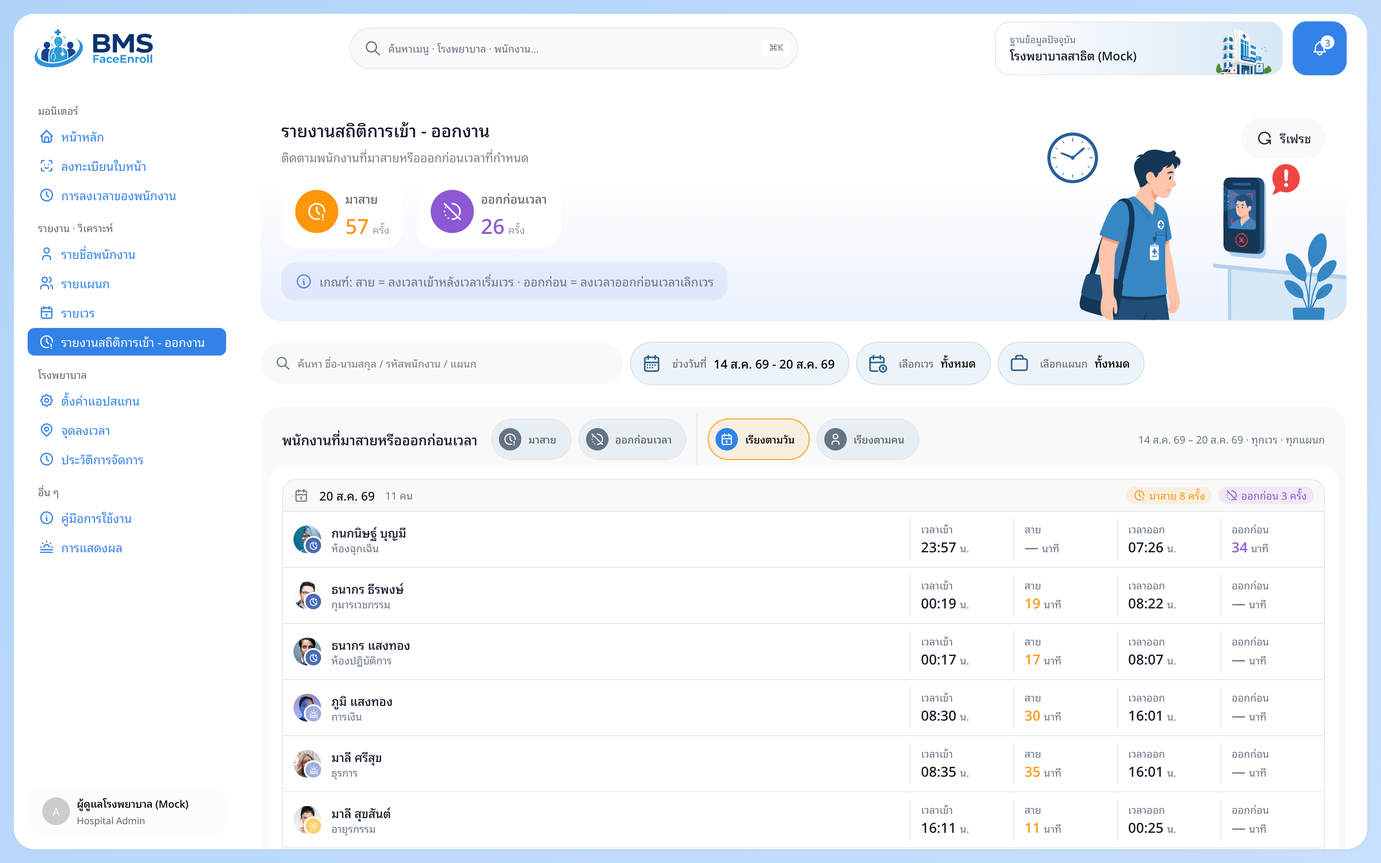
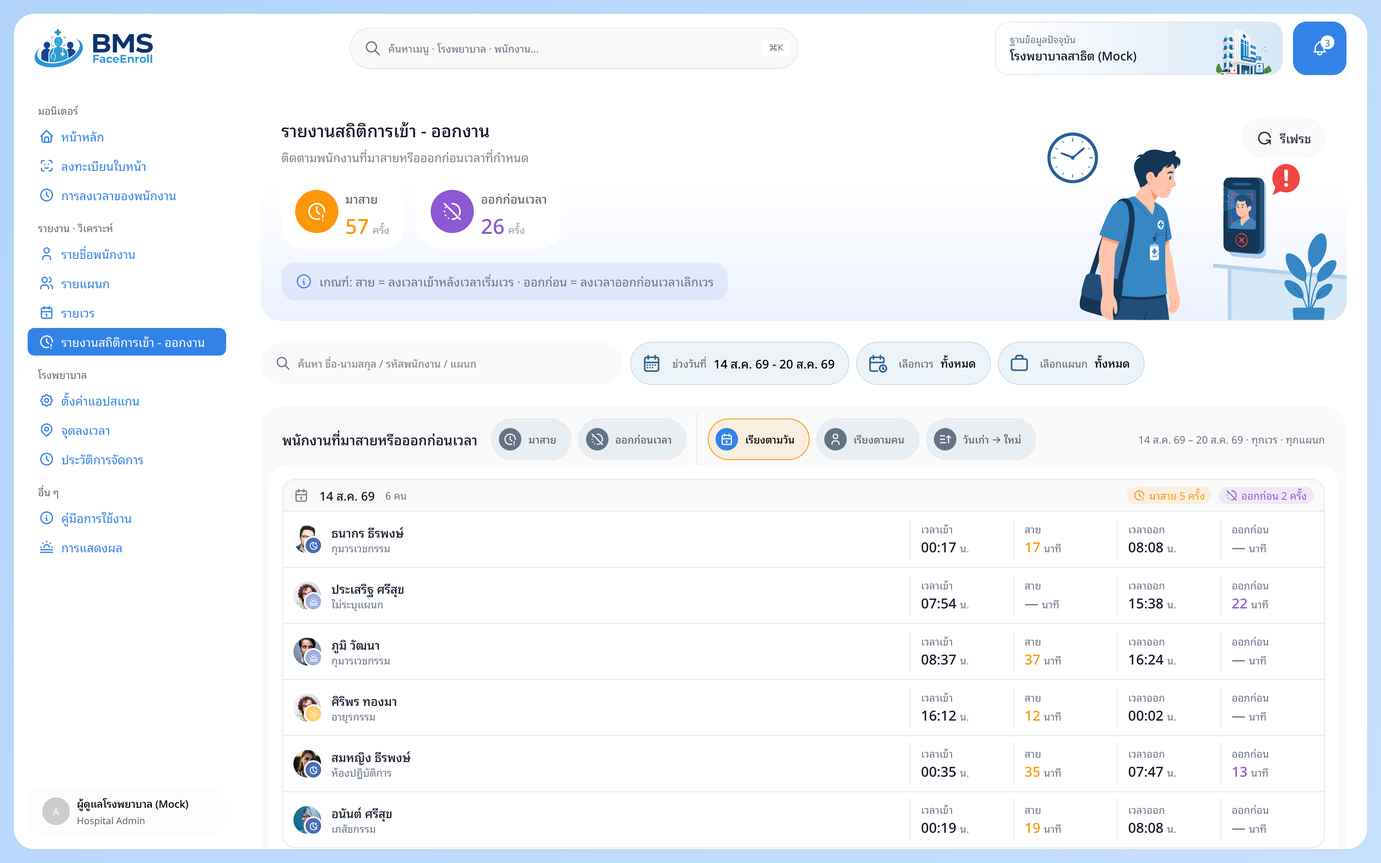
legend กดปิด-เปิดทีละชุด + ลำดับวันในกลุ่มเรียงเก่า → ใหม่
- legend เดิมกดแล้วเหลือชุดเดียว เทียบสองชุดไม่ได้ เปลี่ยนเป็นปิด/เปิดทีละชุด
  ชุดที่ปิดกล่องสีเป็นขอบโปร่ง + ขีดฆ่า · กันปิดครบทุกชุด · แกนคิดสเกลจากชุดที่เปิดอยู่
- รายงานสถิติเข้า-ออก: โหมดเรียงตามคน ไล่วันเก่า → ใหม่ เป็นค่าเริ่มต้น
- เพิ่มชิปสลับลำดับวัน (ตามคน = ลำดับแถวในกลุ่ม · ตามวัน = ลำดับหัวกลุ่ม)
- อัปสไลด์ + ภาพประกอบให้ตรงของจริง

diff --git a/src/components/charts.tsx b/src/components/charts.tsx
@@ -21,12 +21,18 @@ export const legendHover = (set: (v: any) => void, key: string | number) => ({
   style: { cursor: 'default' as const },
 })
 
-/** legend แบบกดค้างได้ — ชี้ = เน้นชั่วคราว · กด = ล็อกโฟกัสไว้ (กดซ้ำ/กดอันอื่นเพื่อเปลี่ยน)
-    ล็อกอยู่ = กราฟคิดเพดานแกนใหม่จากชุดนั้นชุดเดียว (ชุดค่าน้อยจะได้ไม่แบนติดพื้น) */
-export function useLegendFocus<K extends string | number = string>() {
+/** legend กดปิด-เปิดได้ทีละชุด — ชี้ = เน้นชั่วคราว · กด = ปิด/เปิดชุดนั้น (ชุดอื่นไม่ยุ่ง)
+    เลือกเทียบกี่ชุดก็ได้ เช่น ปิดสองชุดเหลือสองแท่งไว้เทียบกัน
+    เหลือกี่ชุดกราฟก็คิดเพดานแกนใหม่จากเท่าที่เปิดอยู่ (ชุดค่าน้อยจะได้ไม่แบนติดพื้น) */
+export function useLegendFocus<K extends string | number = string>(keys?: readonly K[]) {
   const [hover, setHover] = useState<K | null>(null)
-  const [lock, setLock] = useState<K | null>(null)
-  const toggle = (k: K) => setLock((cur) => (cur === k ? null : k))
+  const [off, setOff] = useState<K[]>([])
+  const toggle = (k: K) => setOff((cur) => {
+    if (cur.includes(k)) return cur.filter((x) => x !== k)
+    // ปิดครบทุกชุด = กราฟว่างเปล่า ไม่มีอะไรให้ดู — กันไว้ให้เหลืออย่างน้อยหนึ่งชุด
+    if (keys && cur.length >= keys.length - 1) return cur
+    return [...cur, k]
+  })
   const bind = (key: K) => ({
     onMouseEnter: () => setHover(key),
     onMouseLeave: () => setHover(null),
@@ -38,11 +44,10 @@ export function useLegendFocus<K extends string | number = string>() {
     },
     tabIndex: 0,
     role: 'button' as const,
-    'aria-pressed': lock === key,
+    'aria-pressed': !off.includes(key),
     style: { cursor: 'pointer' as const },
   })
-  // ล็อกชนะการชี้เสมอ — กดค้างไว้แล้วเมาส์ไปไหนกราฟก็ยังโฟกัสชุดเดิม
-  return { focus: (lock ?? hover) as K | null, lock, bind, clear: () => setLock(null) }
+  return { hover, off, isOff: (k: K) => off.includes(k), bind, clear: () => setOff([]) }
 }
 
 export type Seg = { v: number; color: string; label?: string }
@@ -165,7 +170,7 @@ export function PercentBars({ rows, color = 'var(--accent)', colors, height = 32
 
 /** คอลัมน์ซ้อน (stacked) — Figma หน้าหลัก node 13:2973 "สถิติการเข้า-ออกงาน"
     1 แท่ง = 1 วัน ซ้อนตามชุดข้อมูล · legend วาดเองจากฝั่งผู้เรียก (ให้วางมุมขวาบนได้) */
-export function StackedColumns({ groups, series, height = 240, unit = 'ครั้ง', columnWidth = 56, axisLabel, active, isolate, stackLabels, showValues }: {
+export function StackedColumns({ groups, series, height = 240, unit = 'ครั้ง', columnWidth = 56, axisLabel, active, hidden, stackLabels, showValues }: {
   groups: { label: string; values: Record<string, number> }[]
   /** stack = ชื่อกองของชุดข้อมูล (ไม่ใส่ = กองเดียวกันหมด) — คนละกอง = แท่งแยกกันภายในวันเดียวกัน
       dir = 'down' ทำกราฟกระจกเงา: ชุดนั้นห้อยลงใต้เส้นศูนย์ (เข้าขึ้น/ออกลง) — ใช้ stack เดียวกันได้
@@ -178,23 +183,24 @@ export function StackedColumns({ groups, series, height = 240, unit = 'ครั
   axisLabel?: string
   /** key ของชุดข้อมูลที่กำลังชี้อยู่ที่ legend — ชุดอื่นจางลง (legend วาดจากฝั่งผู้เรียก) */
   active?: string | null
-  /** key ที่ "กดล็อก" ไว้ — วาดเฉพาะชุดนั้น แล้วคิดเพดานแกนใหม่จากชุดนั้นชุดเดียว */
-  isolate?: string | null
+  /** key ของชุดที่ "กดปิด" ไว้ที่ legend — ไม่วาด แล้วคิดเพดานแกนใหม่จากชุดที่เหลือ */
+  hidden?: string[]
   /** ป้ายกำกับใต้แท่งของแต่ละกอง เช่น { in: 'เข้า', out: 'ออก' } — ป้ายวัน (label ของ group) เลื่อนลงไปอยู่แถวถัดไป */
   stackLabels?: Record<string, string>
   /** ปักตัวเลขลงกลางทุกชิ้นตลอดเวลา (ชิ้นเตี้ยเกินตัวเลขไม่พอดีจะเว้นให้เอง — ดูจาก tooltip แทน) */
   showValues?: boolean
 }) {
+  const off = (k: string) => !!hidden?.includes(k)
   const stackOf = (s: { stack?: string }) => s.stack ?? 'a'
   const down = (s: { dir?: 'up' | 'down' }) => s.dir === 'down'
   const mirror = series.some(down)
   // กระจกเงา = เก็บชุด 'down' เป็นเลขติดลบ + stackOffset="sign" (ค่าเริ่มต้น 'none' จะจับบวกรวมแล้ววาดขึ้นหมด)
-  // ล็อกชุดไหนอยู่ = ชุดอื่นใส่ null (ไม่ใช่ถอด <Bar> ออก) — จำนวนชุดเท่าเดิม recharts จึงไม่คิดตำแหน่ง/
-  // ความกว้างแท่งใหม่ ปลดล็อกแล้วทุกอย่างกลับที่เดิมเป๊ะ · null ยังโดน Tooltip filterNull กรองออกให้ด้วย
+  // ชุดที่ปิดอยู่ = ใส่ null (ไม่ใช่ถอด <Bar> ออก) — จำนวนชุดเท่าเดิม recharts จึงไม่คิดตำแหน่ง/
+  // ความกว้างแท่งใหม่ เปิดกลับแล้วทุกอย่างกลับที่เดิมเป๊ะ · null ยังโดน Tooltip filterNull กรองออกให้ด้วย
   const data = groups.map((g) => {
     const row: Record<string, number | string | null> = { label: g.label }
     for (const s of series) {
-      row[s.key] = isolate && s.key !== isolate
+      row[s.key] = off(s.key)
         ? null
         : (Number(g.values[s.key]) || 0) * (down(s) ? -1 : 1)
     }
@@ -220,8 +226,8 @@ export function StackedColumns({ groups, series, height = 240, unit = 'ครั
   }
   // เพดานแกน Y คิดเองแล้วส่งให้ทั้ง 2 กราฟ — กราฟแกนที่ปักไว้ซ้ายกับกราฟที่เลื่อนได้จะได้สเกลตรงกันเป๊ะ
   // เพดาน = กองที่สูงที่สุด (คนละกอง/คนละทิศไม่บวกกัน — แยกแท่ง/แยกฝั่งเส้นศูนย์)
-  // ล็อกชุดเดียวอยู่ = วาดแค่ชุดนั้น + คิดเพดานจากชุดนั้น (ชุดค่าน้อยจะได้ไม่แบนจนดูไม่ออก)
-  const shown = isolate ? series.filter((s) => s.key === isolate) : series
+  // ปิดบางชุดอยู่ = คิดเพดานจากชุดที่ยังเปิด (ชุดค่าน้อยจะได้ไม่แบนจนดูไม่ออก)
+  const shown = series.filter((s) => !off(s.key))
   const buckets = [...new Set(shown.map((s) => `${stackOf(s)}|${down(s) ? 'd' : 'u'}`))]
   const top = axis(Math.max(4, ...groups.flatMap((g) => buckets.map((b) =>
     shown.filter((s) => `${stackOf(s)}|${down(s) ? 'd' : 'u'}` === b)
@@ -405,13 +411,13 @@ export function GroupedBars({ groups, series, height = 320, unit = 'วัน', 
   // (ไม่ล็อก barWidth = คิดขั้นต่ำจาก 18px/แท่ง แต่ตอนวาดปล่อยให้ยืดเต็มช่องเหมือนกราฟหน้าหลัก)
   // +96 = เผื่อที่ให้ป้ายใต้แกนที่ยาวได้ เช่น "สัปดาห์ที่ 1 (1–7 ส.ค.)" ไม่ให้ชนกลุ่มข้าง ๆ
   const minWidth = Math.max(320, groups.length * (series.length * ((barWidth ?? 18) + 6) + 96))
-  const { focus: hi, lock, bind } = useLegendFocus()
-  // กดล็อกชุดไหน = ชุดอื่นใส่ null (คง <Bar> ไว้ครบ ช่องของแต่ละชุดจึงไม่ถูกจัดใหม่ ปลดล็อกแล้วกลับที่เดิม)
-  // แล้วคิดเพดานแกนใหม่จากชุดที่ล็อก — ชุดค่าน้อยจะได้ไม่แบนติดพื้น
-  const shown = lock ? series.filter((s) => s.key === lock) : series
+  const { hover: hi, isOff, bind } = useLegendFocus(series.map((s) => s.key))
+  // ชุดที่กดปิด = ใส่ null (คง <Bar> ไว้ครบ ช่องของแต่ละชุดจึงไม่ถูกจัดใหม่ เปิดกลับแล้วอยู่ที่เดิม)
+  // แล้วคิดเพดานแกนใหม่จากชุดที่ยังเปิด — ชุดค่าน้อยจะได้ไม่แบนติดพื้น
+  const shown = series.filter((s) => !isOff(s.key))
   const data = groups.map((g) => {
     const row: Record<string, number | string | null> = { label: g.label }
-    for (const s of series) row[s.key] = lock && s.key !== lock ? null : (Number(g.values[s.key]) || 0)
+    for (const s of series) row[s.key] = isOff(s.key) ? null : (Number(g.values[s.key]) || 0)
     return row
   })
   const top = axis(Math.max(4, ...groups.flatMap((g) => shown.map((s) => Number(g.values[s.key]) || 0)))).top
@@ -424,17 +430,20 @@ export function GroupedBars({ groups, series, height = 320, unit = 'วัน', 
         <span style={{ fontSize: 12, color: 'var(--text-faint)' }}>({unit})</span>
         <span style={{ marginLeft: 'auto', display: 'flex', flexWrap: 'wrap', justifyContent: 'flex-end', gap: 20 }}>
           {series.map((s) => (
-            <span key={s.key} {...bind(s.key)} title={lock === s.key ? 'กดอีกครั้งเพื่อเลิกโฟกัส' : 'กดเพื่อโฟกัสชุดนี้'}
+            <span key={s.key} {...bind(s.key)} title={isOff(s.key) ? 'กดเพื่อแสดงชุดนี้' : 'กดเพื่อซ่อนชุดนี้'}
               style={{
                 ...bind(s.key).style,
                 position: 'relative',
                 display: 'inline-flex', alignItems: 'center', gap: 8, fontSize: 14, whiteSpace: 'nowrap',
-                color: lock === s.key ? 'var(--text)' : 'var(--text-dim)',
+                color: isOff(s.key) ? 'var(--text-faint)' : 'var(--text-dim)',
+                textDecoration: isOff(s.key) ? 'line-through' : undefined,
                 opacity: hi == null || hi === s.key ? 1 : 0.5, transition: 'opacity .12s ease',
               }}>
               <span style={{
-                width: 14, height: 14, borderRadius: 4, background: s.color, flex: 'none',
-                boxShadow: lock === s.key ? '0 0 0 2px var(--bg), 0 0 0 4px currentColor' : undefined,
+                width: 14, height: 14, borderRadius: 4, flex: 'none',
+                background: isOff(s.key) ? 'transparent' : s.color,
+                boxShadow: isOff(s.key) ? `inset 0 0 0 2px ${s.color}` : undefined,
+                opacity: isOff(s.key) ? 0.55 : 1, transition: 'background .12s ease, opacity .12s ease',
               }} />
               {s.label}
             </span>

diff --git a/presentation/src/slides.ts b/presentation/src/slides.ts
@@ -30,19 +30,19 @@ export const SLIDES: Slide[] = [
     sec: 'อัปเดตล่าสุด · 20 ส.ค. 69',
     title: 'หน้าหลัก — กราฟเข้า-ออกแบบกระจกเงา + สรุปเป็นจำนวนครั้ง',
     diff: { before: 'overview-cards-before.png', after: 'overview-io-mirror.png' },
-    desc: 'กราฟสถิติการเข้า-ออกงานแยกครึ่งบน-ล่าง: บนคือการสแกนขาเข้า ล่างคือการสแกนขาออก · ตัวเลขปักบนแท่ง · legend กดล็อกโฟกัสได้ · ตัวเลขขาดงานถูกปิดไว้ทั้งระบบ',
+    desc: 'กราฟสถิติการเข้า-ออกงานแยกครึ่งบน-ล่าง: บนคือการสแกนขาเข้า ล่างคือการสแกนขาออก · ตัวเลขปักบนแท่ง · legend กดปิด-เปิดทีละชุดได้ · ตัวเลขขาดงานถูกปิดไว้ทั้งระบบ',
     say: 'เริ่มที่อัปเดตล่าสุดของหน้าหลัก กราฟสถิติการเข้าออกงานเดิมเอาทุกอย่างมากองรวมในแท่งเดียว แยกไม่ออกว่าตัวเลขไหนคือขาเข้าตัวไหนคือขาออก และที่สำคัญคือพนักงานหนึ่งคนสแกนเข้าออกได้หลายรอบต่อวัน ตัวเลขเดิมจึงสื่อความหมายไม่ตรง',
     points: [
       'ครึ่งบน = การสแกนขาเข้า (ตรงเวลา/สาย) · ครึ่งล่าง = การสแกนขาออก (ปกติ/ก่อนเวลา)',
       'นับเป็น "ครั้ง" ทุกจุด — คนเดียวควบกะสแกนได้หลายรอบต่อวัน',
-      'legend กดล็อกได้ — โฟกัสชุดเดียว แล้วแกนคิดสเกลใหม่ให้',
+      'legend กดปิด-เปิดได้ทีละชุด — เหลือไว้เทียบกี่ชุดก็ได้ แกนคิดสเกลใหม่ให้',
       'ตัวเลขขาดงานปิดทั้งระบบ — ริบบิ้นมุมการ์ดบอกว่ากำลังพัฒนา',
     ],
     notes: [
       { x: 51.5, y: 28, side: 'left', text: 'การ์ดขาดงานปิดไว้ — ริบบิ้นมุมบอก "อยู่ระหว่างพัฒนา"',
         say: 'จุดแรก การ์ดขาดงาน ระบบยังไม่มีตารางเวรล่วงหน้าและข้อมูลวันลา จึงไม่มีทางรู้ว่าใครควรมาแต่ไม่มา ตัวเลขเดิมเป็นการอนุมานล้วน ๆ เราจึงปิดไว้ทั้งระบบ ใส่ริบบิ้นมุมการ์ดบอกว่าอยู่ระหว่างพัฒนา ชี้แล้วมีคำอธิบายว่ากำลังทำการเชื่อมต่อกับระบบ HR' },
-      { x: 44.5, y: 51, side: 'right', text: 'legend กดล็อกได้ — โฟกัสชุดเดียว แกนคิดสเกลใหม่',
-        say: 'จุดที่สอง ป้ายชุดข้อมูลมุมขวาบนกดได้แล้ว กดชุดไหนกราฟจะโฟกัสชุดนั้นแล้วคำนวณความสูงของแกนใหม่ตามชุดที่เลือก ชุดที่มีค่าน้อยอย่างเข้าสายจึงไม่แบนติดพื้นจนดูไม่ออก และการเปลี่ยนสเกลค่อย ๆ ไหลไม่กระตุก' },
+      { x: 44.5, y: 51, side: 'right', text: 'legend กดปิด-เปิดทีละชุด — เหลือไว้เทียบกี่ชุดก็ได้',
+        say: 'จุดที่สอง ป้ายชุดข้อมูลมุมขวาบนกดได้แล้ว กดชุดไหนคือปิดชุดนั้น กดซ้ำคือเปิดกลับ ชุดอื่นไม่ถูกยุ่ง อยากเทียบสองชุดก็ปิดที่เหลือทิ้ง ชุดที่ปิดอยู่กล่องสีจะกลายเป็นขอบโปร่งและมีเส้นขีดฆ่าให้รู้ว่าปิดอยู่ ที่สำคัญคือแกนจะคำนวณความสูงใหม่จากเท่าที่เปิดอยู่ ชุดค่าน้อยอย่างเข้าสายจึงไม่แบนติดพื้นจนดูไม่ออก และการเปลี่ยนสเกลค่อย ๆ ไหลไม่กระตุก' },
       { x: 38, y: 68, side: 'right', text: 'บน = สแกนขาเข้า · ล่าง = สแกนขาออก · ตัวเลขปักบนแท่ง',
         say: 'จุดที่สาม ตัวกราฟเอง เหนือเส้นศูนย์คือการสแกนขาเข้า แยกเข้าตรงเวลากับเข้าสาย ใต้เส้นคือการสแกนขาออก แยกออกปกติกับออกก่อนเวลา สองฝั่งใช้สเกลเดียวกันจึงเทียบความสูงกันได้ตรง ๆ พร้อมปักตัวเลขไว้บนทุกชิ้น ชิ้นที่บางเกินไปตัวเลขจะเด้งออกไปอยู่นอกแท่งให้อ่านออก และป้ายแกนใช้รูปแบบวันที่แบบเดียวกับตัวกรองด้านบน' },
       { x: 78, y: 63, side: 'left', text: 'แนวโน้มการมาสาย — เพิ่มเส้นประค่าเฉลี่ยทั้งช่วง',
@@ -62,6 +62,7 @@ export const SLIDES: Slide[] = [
       'ชิปใหม่ เรียงตามวัน / เรียงตามคน — โผล่เมื่อกรองหลายวัน',
       'หัวกลุ่มสรุปให้: มาสายกี่ครั้ง ออกก่อนกี่ครั้ง',
       'เรียงตามคน = คนที่มีปัญหาบ่อยสุดขึ้นก่อน',
+      'ข้างในกลุ่มไล่วันเก่า → ใหม่ · มีปุ่มสลับลำดับวัน',
       'แบ่งหน้าเป็นกลุ่ม ไม่หั่นกลุ่มคาหน้า',
     ],
     notes: [
@@ -71,8 +72,10 @@ export const SLIDES: Slide[] = [
         say: 'จุดที่สอง โหมดเรียงตามคน หัวการ์ดคือพนักงานหนึ่งคน บอกแผนกและจำนวนวันที่มีปัญหาในช่วงนั้น โดยเรียงคนที่มีปัญหาบ่อยที่สุดขึ้นก่อน หัวหน้างานเห็นทันทีว่าควรคุยกับใคร' },
       { x: 88, y: 58.5, side: 'left', text: 'ป้ายสรุปหัวกลุ่ม — มาสายกี่ครั้ง ออกก่อนกี่ครั้ง',
         say: 'จุดที่สาม มุมขวาของหัวกลุ่มมีป้ายสรุปว่ากลุ่มนี้มาสายกี่ครั้งและออกก่อนกี่ครั้ง ไม่ต้องนับแถวเอง' },
-      { x: 28, y: 71, side: 'right', text: 'ข้างในไล่เป็นวัน — เห็นเวรและเวลาครบทุกรอบ',
-        say: 'จุดสุดท้าย ข้างในกลุ่มไล่เป็นรายวันจากใหม่ไปเก่า บอกเวรของรอบนั้นพร้อมเวลาเข้า นาทีที่สาย เวลาออก และนาทีที่ออกก่อน คนที่ควบกะสองรอบในวันเดียวก็จะเห็นเป็นสองบรรทัดแยกเวรกัน ส่วนโหมดเรียงตามวันจะสลับกัน คือหัวกลุ่มเป็นวันที่ แล้วข้างในไล่เป็นรายคนแทน' },
+      { x: 71, y: 51, side: 'left', text: 'ปุ่มสลับลำดับวัน — เก่า → ใหม่ / ใหม่ → เก่า',
+        say: 'ถัดมาเป็นปุ่มสลับลำดับวัน ค่าเริ่มต้นคือเก่าไปใหม่ กดแล้วสลับเป็นใหม่ไปเก่าได้ โหมดเรียงตามคนปุ่มนี้คุมลำดับแถวข้างในกลุ่ม ส่วนโหมดเรียงตามวันคุมลำดับของหัวกลุ่มเอง' },
+      { x: 28, y: 71, side: 'right', text: 'ข้างในไล่วันเก่า → ใหม่ — เห็นเวรและเวลาครบทุกรอบ',
+        say: 'จุดสุดท้าย ข้างในกลุ่มไล่เป็นรายวันจากเก่าไปใหม่ อ่านเป็นไทม์ไลน์ของคนนั้นได้ว่าเริ่มมีปัญหาตั้งแต่เมื่อไรและดีขึ้นหรือแย่ลง แต่ละบรรทัดบอกเวรของรอบนั้นพร้อมเวลาเข้า นาทีที่สาย เวลาออก และนาทีที่ออกก่อน คนที่ควบกะสองรอบในวันเดียวก็จะเห็นเป็นสองบรรทัดแยกเวรกัน ส่วนโหมดเรียงตามวันจะสลับกัน คือหัวกลุ่มเป็นวันที่เรียงวันล่าสุดขึ้นก่อน แล้วข้างในไล่เป็นรายคนแทน' },
     ],
   },
 

diff --git a/src/screens/ReportLate.tsx b/src/screens/ReportLate.tsx
@@ -203,7 +203,9 @@ function GroupCard({ g, mode }: { g: IssueGroup; mode: 'date' | 'person' }) {
 }
 
 /** จัดกลุ่มแถวตามวัน (ใหม่→เก่า) หรือตามคน (คนที่มีปัญหาบ่อยสุดขึ้นก่อน) */
-function groupRows(rows: IssueRow[], mode: 'date' | 'person'): IssueGroup[] {
+/** dateAsc = ไล่วันเก่า -> ใหม่
+    โหมดตามคน = ลำดับแถวข้างในกลุ่ม · โหมดตามวัน = ลำดับของหัวกลุ่มเอง */
+function groupRows(rows: IssueRow[], mode: 'date' | 'person', dateAsc: boolean): IssueGroup[] {
   const m = new Map<string, IssueGroup>()
   for (const r of rows) {
     const k = mode === 'date' ? r.date : r.emp
@@ -217,10 +219,11 @@ function groupRows(rows: IssueRow[], mode: 'date' | 'person'): IssueGroup[] {
   for (const g of out) {
     g.rows.sort((a, b) => (mode === 'date'
       ? a.name.localeCompare(b.name, 'th') || a.seq - b.seq
-      : b.date.localeCompare(a.date) || a.seq - b.seq))
+      // เรียงตามคน = ไล่วันตามที่เลือก อ่านเป็นไทม์ไลน์ของคนนั้นได้
+      : (dateAsc ? a.date.localeCompare(b.date) : b.date.localeCompare(a.date)) || a.seq - b.seq))
   }
   return mode === 'date'
-    ? out.sort((a, b) => b.key.localeCompare(a.key))
+    ? out.sort((a, b) => (dateAsc ? a.key.localeCompare(b.key) : b.key.localeCompare(a.key)))
     : out.sort((a, b) => (b.rows.length - a.rows.length) || a.rows[0].name.localeCompare(b.rows[0].name, 'th'))
 }
 
@@ -260,7 +263,7 @@ function IssueSkeleton({ count }: { count: number }) {
   )
 }
 
-function IssueList({ rows: allRows, total, page, onPage, showDate, loading, empty, groupBy }: {
+function IssueList({ rows: allRows, total, page, onPage, showDate, loading, empty, groupBy, dateAsc = true }: {
   rows: IssueRow[]
   total: number
   page: number
@@ -270,9 +273,11 @@ function IssueList({ rows: allRows, total, page, onPage, showDate, loading, empt
   empty: string
   /** กรองหลายวัน = จัดกลุ่มตามวัน/ตามคน (null = รายการเรียบแบบเดิม ใช้ตอนดูวันเดียว) */
   groupBy?: 'date' | 'person' | null
+  /** ลำดับวัน — true = เก่า -> ใหม่ (ค่าเริ่มต้น) */
+  dateAsc?: boolean
 }) {
   // จัดกลุ่มอยู่ = แบ่งหน้าทีละ 10 "กลุ่ม" ไม่ใช่ 10 แถว (ไม่งั้นกลุ่มโดนหั่นครึ่งคาหน้า)
-  const groups = groupBy ? groupRows(allRows, groupBy) : null
+  const groups = groupBy ? groupRows(allRows, groupBy, dateAsc) : null
   const pageGroups = groups ? pageSliceOf(groups, page) : null
   const rows = pageSlice(allRows, page)
   const boxRef = useRef<HTMLDivElement>(null)
@@ -326,6 +331,8 @@ export function ReportLate() {
   const [view, setView] = useState<'all' | 'late' | 'early'>('all')
   // กรองหลายวัน = จัดกลุ่มรายการ ("เรียงตามวัน" ตั้งต้น) — ก่อนหน้านี้แถวของคนเดียวกันกระจายอยู่คนละใบ ไล่ดูยาก
   const [groupBy, setGroupBy] = useState<'date' | 'person'>('date')
+  // ลำดับวัน — เริ่มที่เก่า -> ใหม่ (อ่านเป็นไทม์ไลน์) กดชิปสลับได้
+  const [dateAsc, setDateAsc] = useState(true)
   const [latePage, setLatePage] = useState(0)
   const [earlyPage, setEarlyPage] = useState(0)
   const [allPage, setAllPage] = useState(0)
@@ -337,7 +344,7 @@ export function ReportLate() {
 
   // สลับโรง = ล้างตัวกรอง + กลับมาดูวันนี้ · เปลี่ยนเงื่อนไข = กลับหน้าแรกทั้งสองแผง
   useEffect(() => { setFShifts([]); setFDepts([]); setSearch(''); setFrom(localISO()); setTo(localISO()) }, [hcode])
-  useEffect(() => { setLatePage(0); setEarlyPage(0); setAllPage(0) }, [from, to, fShifts, fDepts, dq, hcode, groupBy])
+  useEffect(() => { setLatePage(0); setEarlyPage(0); setAllPage(0) }, [from, to, fShifts, fDepts, dq, hcode, groupBy, dateAsc])
 
   const fq = filterQS(fShifts, fDepts)
   // ช่วงหลายวัน = ต้องจัดกลุ่มข้ามหน้า (คนคนเดียวโผล่หลายวัน) จึงดึงมาทีเดียวแล้วแบ่งหน้าเองฝั่งหน้าเว็บ
@@ -488,6 +495,10 @@ export function ReportLate() {
                 icon={<Icon name="calendar" size={16} width={2} />} label="เรียงตามวัน" />
               <FilterChip outlined variant="choice" tone="accent" active={groupBy === 'person'} onClick={() => setGroupBy('person')}
                 icon={<Icon name="person" size={16} width={2} />} label="เรียงตามคน" />
+              {/* สลับลำดับวัน — ตามคน = ลำดับแถวในกลุ่ม · ตามวัน = ลำดับหัวกลุ่ม */}
+              <FilterChip outlined variant="action" tone="accent" onClick={() => setDateAsc((v) => !v)}
+                icon={<Icon name={dateAsc ? 'sort-asc' : 'sort-desc'} size={16} width={2} />}
+                label={dateAsc ? 'วันเก่า → ใหม่' : 'วันใหม่ → เก่า'} />
             </>
           )}
         </>}
@@ -496,19 +507,19 @@ export function ReportLate() {
         {view === 'late'
           ? (
             <IssueList rows={lateShown} total={dq || multiDay ? lateShown.length : (anaF.data?.late_total ?? lateShown.length)}
-              page={latePage} onPage={setLatePage} showDate={multiDay} groupBy={multiDay ? groupBy : null}
+              page={latePage} onPage={setLatePage} showDate={multiDay} groupBy={multiDay ? groupBy : null} dateAsc={dateAsc}
               loading={anaF.loading} empty={dq ? 'ไม่พบพนักงานที่ตรงกับที่ค้นหา' : 'ไม่มีคนมาสายในช่วงที่เลือก'} />
           )
           : view === 'early'
             ? (
               <IssueList rows={earlyShown} total={dq || multiDay ? earlyShown.length : (anaF.data?.early_total ?? earlyShown.length)}
-                page={earlyPage} onPage={setEarlyPage} showDate={multiDay} groupBy={multiDay ? groupBy : null}
+                page={earlyPage} onPage={setEarlyPage} showDate={multiDay} groupBy={multiDay ? groupBy : null} dateAsc={dateAsc}
                 loading={anaF.loading} empty={dq ? 'ไม่พบพนักงานที่ตรงกับที่ค้นหา' : 'ไม่มีคนออกก่อนเวลาในช่วงที่เลือก'} />
             )
             : (
               /* รวมสองฝั่งแล้วยุบคนซ้ำ — จำนวนหน้าคิดจากรายการที่รวมแล้ว */
               <IssueList rows={allShown} total={allShown.length}
-                page={allPage} onPage={setAllPage} showDate={multiDay} groupBy={multiDay ? groupBy : null}
+                page={allPage} onPage={setAllPage} showDate={multiDay} groupBy={multiDay ? groupBy : null} dateAsc={dateAsc}
                 loading={anaF.loading} empty={dq ? 'ไม่พบพนักงานที่ตรงกับที่ค้นหา' : 'ไม่มีคนมาสายหรือออกก่อนเวลาในช่วงที่เลือก'} />
             )}
       </SectionPanel>

diff --git a/src/screens/Overview.tsx b/src/screens/Overview.tsx
@@ -118,13 +118,14 @@ function RecentMini({ r }: { r: Row }) {
 }
 
 /** legend มุมขวาบนของกราฟ (วาดเอง จะได้ไม่เลื่อนตามกราฟที่ scroll ได้)
-    ชี้ = เน้นชุดนั้นชั่วคราว · กด (bind) = ล็อกโฟกัสไว้ แล้วกราฟคิดเพดานแกนใหม่ตามชุดที่ล็อก */
-function Legend({ items, active, onHover, bind, lock }: {
+    ชี้ = เน้นชุดนั้นชั่วคราว · กด (bind) = ปิด/เปิดชุดนั้น (ชุดอื่นคาไว้เหมือนเดิม เทียบกี่ชุดก็ได้) */
+function Legend({ items, active, onHover, bind, off }: {
   items: { key?: string; label: string; color: string }[]
   active?: string | null
   onHover?: (k: string | null) => void
   bind?: (k: string) => Record<string, unknown>
-  lock?: string | null
+  /** key ของชุดที่ถูกกดปิดอยู่ — กล่องสีกลายเป็นขอบโปร่ง ข้อความจาง */
+  off?: string[]
 }) {
   return (
     <span style={{ display: 'inline-flex', gap: 'var(--sp-4)', flexWrap: 'wrap' }}>
@@ -132,20 +133,23 @@ function Legend({ items, active, onHover, bind, lock }: {
         const k = s.key ?? s.label
         const on = bind ? bind(k) : onHover ? legendHover(onHover, k) : null
         const dim = on && active != null && active !== k
-        const locked = lock === k
+        const hidden = !!off?.includes(k)
         return (
           <span key={s.label} {...on}
-            title={bind ? (locked ? 'กดอีกครั้งเพื่อเลิกโฟกัส' : 'กดเพื่อโฟกัสชุดนี้') : undefined}
+            title={bind ? (hidden ? 'กดเพื่อแสดงชุดนี้' : 'กดเพื่อซ่อนชุดนี้') : undefined}
             style={{
               ...(on?.style as object),
               position: 'relative',
               display: 'inline-flex', alignItems: 'center', gap: 6, ...TEXT.sm, whiteSpace: 'nowrap',
-              color: locked ? 'var(--text)' : 'var(--text-dim)',
+              color: hidden ? 'var(--text-faint)' : 'var(--text-dim)',
+              textDecoration: hidden ? 'line-through' : undefined,
               opacity: dim ? 0.5 : 1, transition: 'opacity .12s ease',
             }}>
             <span style={{
-              width: 12, height: 12, borderRadius: 3, background: s.color, flex: 'none',
-              boxShadow: locked ? '0 0 0 2px var(--bg), 0 0 0 4px currentColor' : undefined,
+              width: 12, height: 12, borderRadius: 3, flex: 'none',
+              background: hidden ? 'transparent' : s.color,
+              boxShadow: hidden ? `inset 0 0 0 2px ${s.color}` : undefined,
+              opacity: hidden ? 0.55 : 1, transition: 'background .12s ease, opacity .12s ease',
             }} />
             {s.label}
           </span>
@@ -173,7 +177,7 @@ export function Overview() {
   const [fDepts, setFDepts] = useState<string[]>([])
   const { shiftOpts, deptOpts } = useAttFilterOptions(hcode)
   // legend ของกราฟการเข้า-ออกงาน — ชี้ = เน้นชั่วคราว · กด = ล็อกโฟกัส (แกน Y คิดใหม่ตามชุดที่ล็อก)
-  const ioFocus = useLegendFocus()
+  const ioFocus = useLegendFocus(IO_SERIES.map((s) => s.key))
 
   useEffect(() => { setFShifts([]); setFDepts([]); setFrom(daysAgoISO(6)); setTo(localISO()) }, [hcode])
 
@@ -516,12 +520,12 @@ export function Overview() {
           <div className="grid gap-4 items-stretch" style={{ gridTemplateColumns: 'repeat(auto-fit, minmax(min(460px,100%), 1fr))' }}>
             <SectionPanel title="สถิติการเข้า-ออกงาน"
               meta={<Legend items={IO_SERIES.map((s) => ({ ...s, label: `${s.dir === 'up' ? '▲' : '▼'} ${s.label}` }))}
-                active={ioFocus.focus} bind={ioFocus.bind} lock={ioFocus.lock} />}>
+                active={ioFocus.hover} bind={ioFocus.bind} off={ioFocus.off} />}>
               {!ana ? <SkelChart height={250} /> : (
                 /* กระจกเงา: วันละแท่งเดียว — ครึ่งบนคือสแกนขาเข้า ครึ่งล่างคือสแกนขาออก
                    หน่วยเป็น "ครั้ง" เสมอ เพราะ 1 คนสแกนได้หลายรอบต่อวัน */
                 <StackedColumns groups={dayGroups} series={IO_SERIES} height={250} unit="ครั้ง" columnWidth={68}
-                  active={ioFocus.focus} isolate={ioFocus.lock} showValues />
+                  active={ioFocus.hover} hidden={ioFocus.off} showValues />
               )}
             </SectionPanel>
 

diff --git a/src/icons.tsx b/src/icons.tsx
@@ -16,6 +16,8 @@ const P: Record<string, string> = {
   'chevron-down': "<path d=\"M6 9l6 6l6 -6\" />", // tabler: chevron-down
   'chevron-left': "<path d=\"M15 6l-6 6l6 6\" />", // tabler: chevron-left
   'chevron-right': "<path d=\"M9 6l6 6l-6 6\" />", // tabler: chevron-right
+  'sort-asc': "<path d=\"M4 6l7 0\" /><path d=\"M4 12l7 0\" /><path d=\"M4 18l9 0\" /><path d=\"M15 9l3 -3l3 3\" /><path d=\"M18 6l0 12\" />", // tabler: sort-ascending-2
+  'sort-desc': "<path d=\"M4 6l9 0\" /><path d=\"M4 12l7 0\" /><path d=\"M4 18l7 0\" /><path d=\"M15 15l3 3l3 -3\" /><path d=\"M18 6l0 12\" />", // tabler: sort-descending-2
   filter: "<path d=\"M4 4h16v2.172a2 2 0 0 1 -.586 1.414l-4.414 4.414v7l-6 2v-8.5l-4.48 -4.928a2 2 0 0 1 -.52 -1.345v-2.227z\" />", // tabler: filter
   clock: "<path d=\"M3 12a9 9 0 1 0 18 0a9 9 0 0 0 -18 0\" /><path d=\"M12 7v5l3 3\" />", // tabler: clock
   'clock-alert': "<path d=\"M20.986 12.502a9 9 0 1 0 -5.973 7.98\" /><path d=\"M12 7v5l3 3\" /><path d=\"M19 16v3\" /><path d=\"M19 22v.01\" />", // tabler: clock-exclamation
